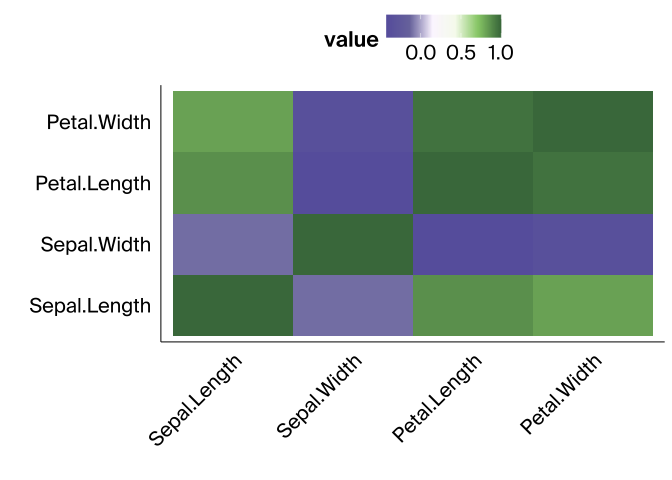
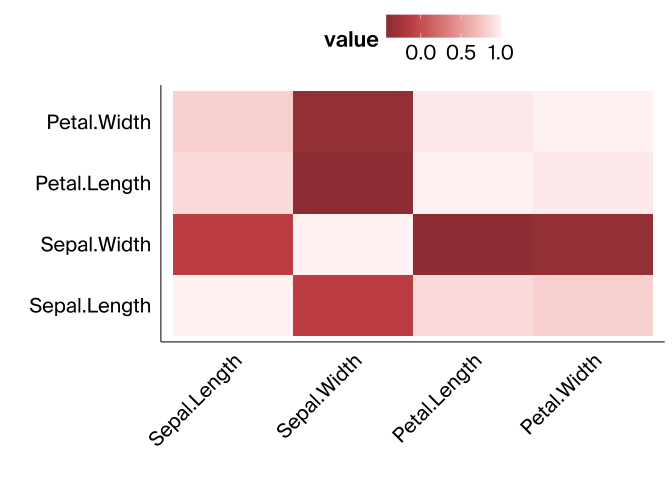
fixed gradient positions and gradient fill bug

diff --git a/README.md b/README.md
@@ -99,7 +99,7 @@ melted_cor_matrix <- (melt(cor_matrix))
 ggplot(melted_cor_matrix, aes(x=Var1, y=Var2, fill=value)) +
   geom_tile() +
   theme_arcadia(x_axis_type = "categorical", y_axis_type = "categorical", background = FALSE) +
-  gradient_fill_arcadia(palette_name = "purplegreen") + 
+  gradient_fill_arcadia(palette_name = "reds") + 
   theme(axis.text.x = element_text(angle = 45, hjust = 1),
         legend.position = "top") +
   labs(x = "", y = "")
